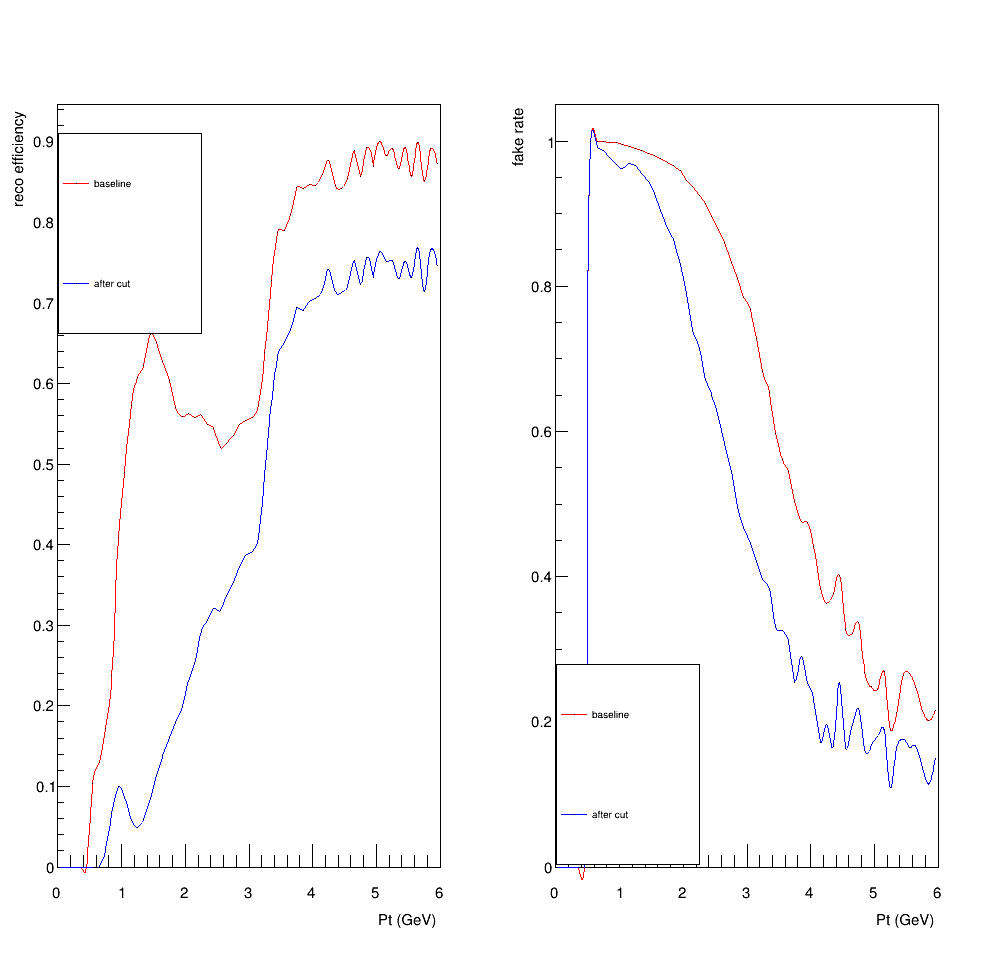
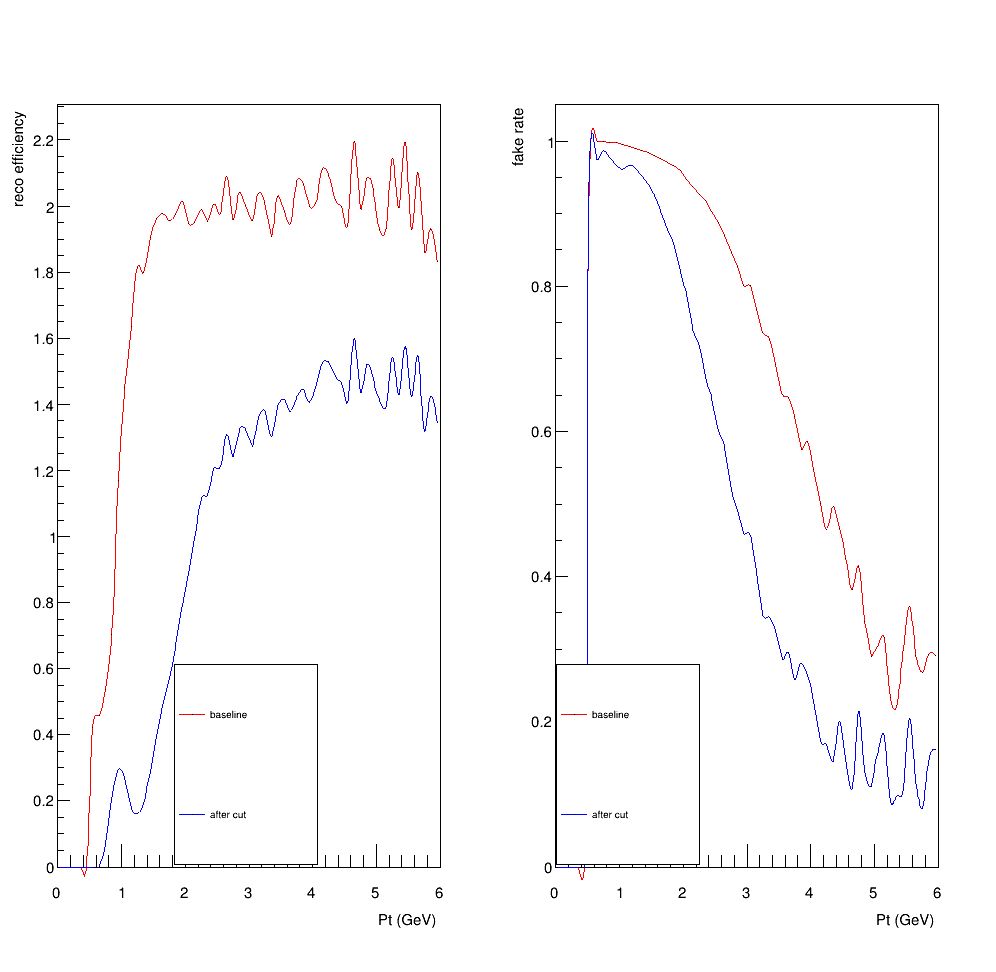
updates

diff --git a/root_scripts/tmva/cut_test_TMVA.C b/root_scripts/tmva/cut_test_TMVA.C
@@ -179,9 +179,9 @@ TCanvas* cut_test_from_name(const char* filename) {
     Int_t n_entries = gen_tree->GetEntries();
 	for (int iEntry = 0; gen_tree->LoadTree(iEntry) >= 0; ++iEntry) {
 	    gen_tree->GetEntry(iEntry);
-		gen.Fill(gen_mu_pt);
-
+		
 		n_gen++;
+		gen.Fill(gen_mu_pt);
 	}
 
 	n_entries = read_tree->GetEntries();
@@ -191,6 +191,10 @@ TCanvas* cut_test_from_name(const char* filename) {
 	   	if (iEntry%(n_entries/100*5) == 0) {
 	   		std::cout << "\t" << iEntry/(n_entries/100) << "\% complited..." << std::endl;
 			std::cout << "\t\tadvancment: " << n_gen << "  " << n_false << "/" << n_true << " -> " << n_false_cut << "/" << n_true_cut << std::endl;
+	   	}
+
+	   	if (reco_mu_eta < 1.6 || reco_mu_eta > 2.8) {
+	   		continue;
 	   	}
 
 		if (!plotOnlyGEM || base_cut(
@@ -222,39 +226,41 @@ TCanvas* cut_test_from_name(const char* filename) {
 			}
 		}
 
-		if (base_cut(
-				reco_mu_isGEM,
-				reco_isTracker,
-				reco_isGlobal,
-				nHitsMu,
-				nHitsTracker,
-				nHitsPix,
-				reco_mu_localChi2,
-				reco_mu_normChi2,
-				reco_mu_pt,
-				reco_mu_eta,
-				reco_mu_dxy,
-				reco_mu_dz,
-			    nPV,
-				reco_mu_highPurity,
-				reco_mu_nMatches,
-				reco_muGEMquality
-			))
-		{
-			float proba = reader->EvaluateMVA("BDTG");
-		    bool  pass = proba > wp;
+		if (reco_mu_isGEM) {
+				if (base_cut(
+					reco_mu_isGEM,
+					reco_isTracker,
+					reco_isGlobal,
+					nHitsMu,
+					nHitsTracker,
+					nHitsPix,
+					reco_mu_localChi2,
+					reco_mu_normChi2,
+					reco_mu_pt,
+					reco_mu_eta,
+					reco_mu_dxy,
+					reco_mu_dz,
+				    nPV,
+					reco_mu_highPurity,
+					reco_mu_nMatches,
+					reco_muGEMquality
+				))
+			{
+				float proba = reader->EvaluateMVA("BDTG");
+			    bool  pass = proba > wp;
 
-		    if (pass) {
-				recoCut.Fill(reco_mu_pt);
-				if (reco_mu_isFake) {
-					n_false_cut++;
-					recoFakeCut.Fill(reco_mu_pt);
-				} else {
-					n_true_cut++;
-					recoTrueCut.Fill(reco_mu_pt);
+			    if (pass) {
+					recoCut.Fill(reco_mu_pt);
+					if (reco_mu_isFake) {
+						n_false_cut++;
+						recoFakeCut.Fill(reco_mu_pt);
+					} else {
+						n_true_cut++;
+						recoTrueCut.Fill(reco_mu_pt);
+					}
 				}
 			}
-		} else if (!plotOnlyGEM && !reco_mu_isGEM) {
+		} else if (!plotOnlyGEM) {
 			recoCut.Fill(reco_mu_pt);
 			if (reco_mu_isFake) {
 				n_false_cut++;
